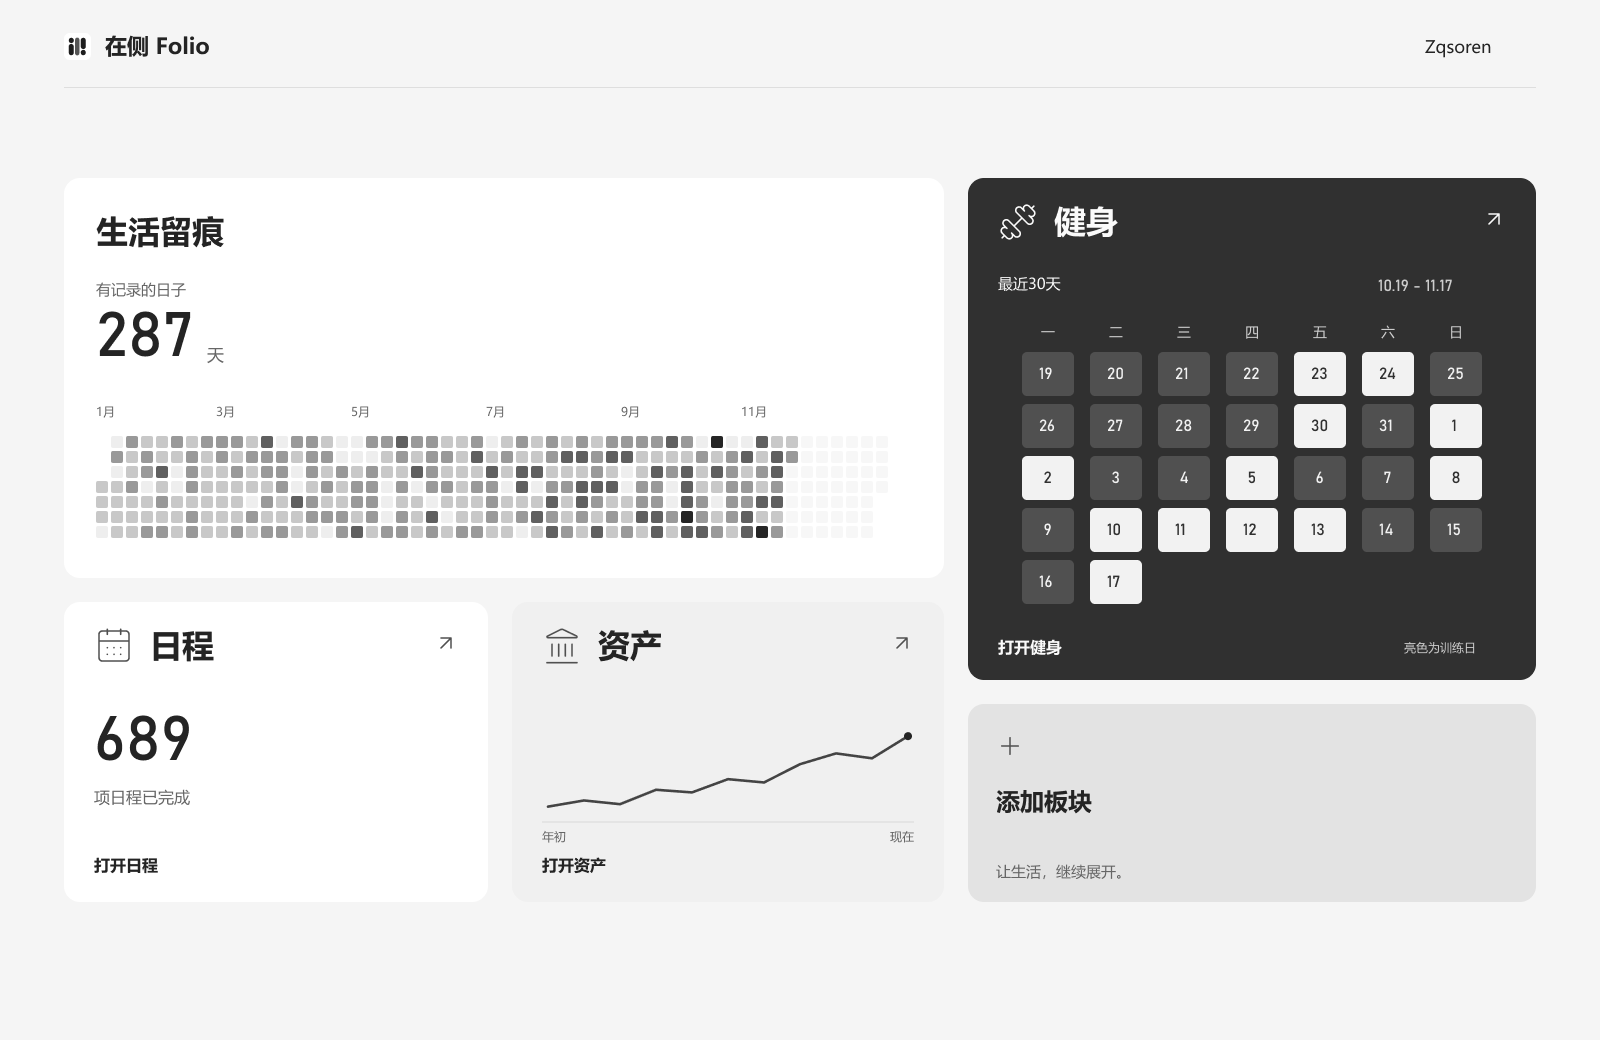
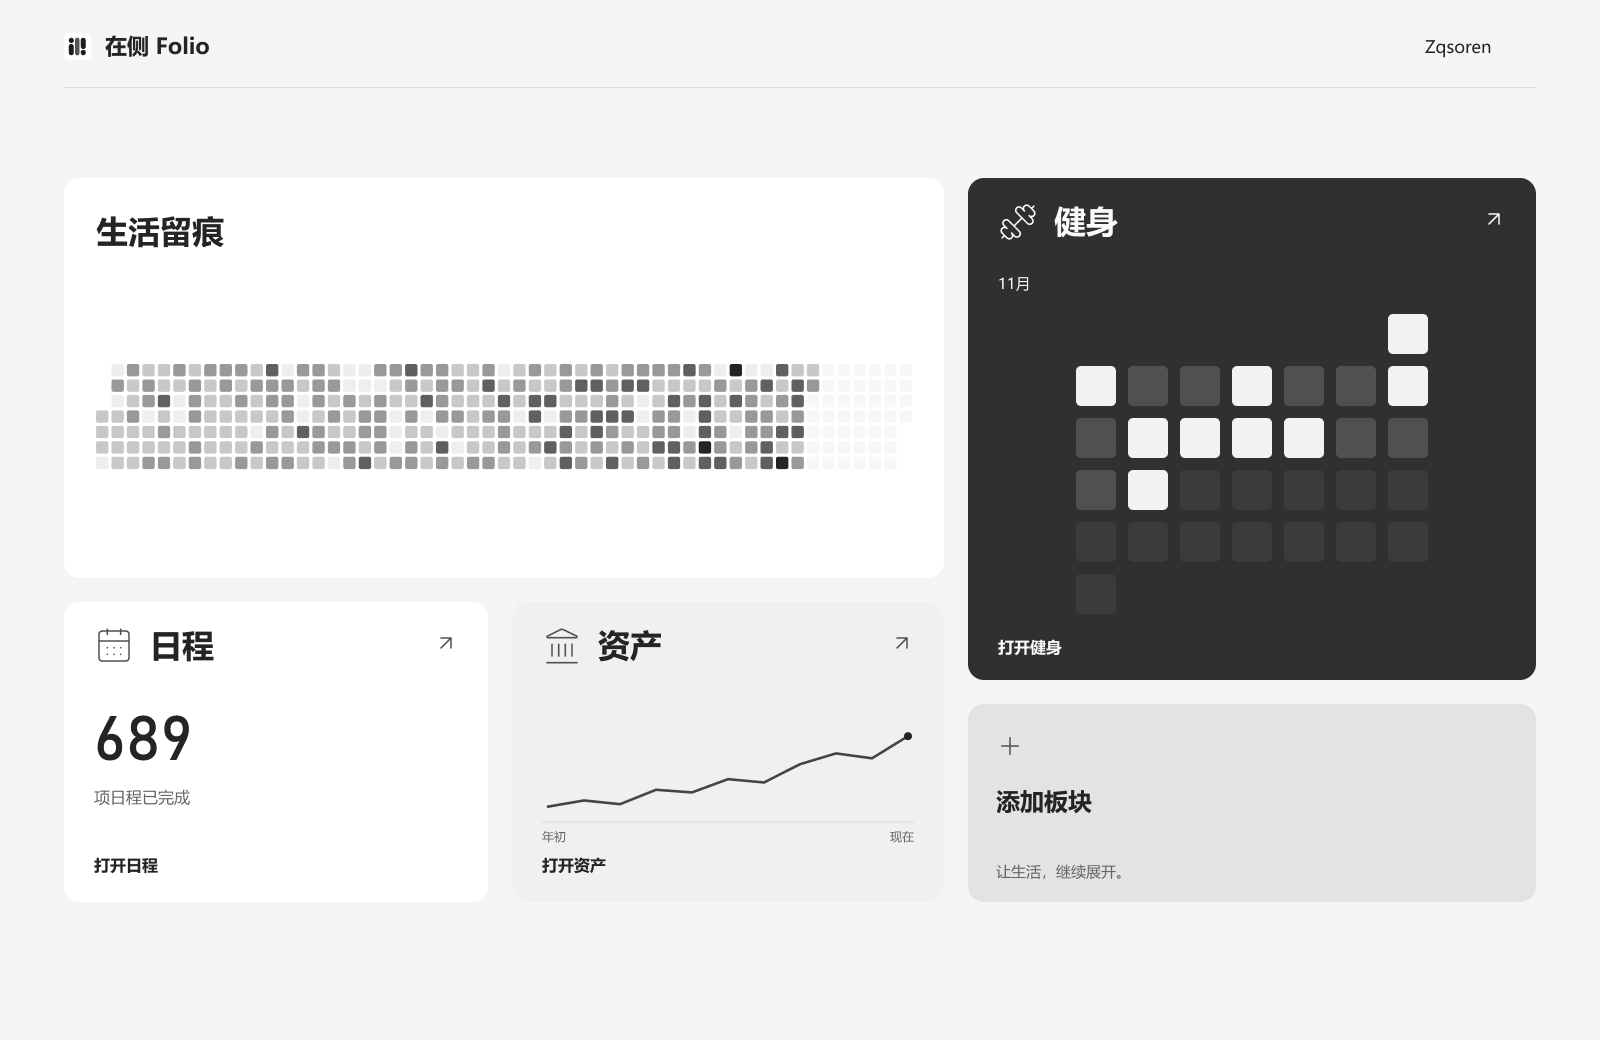
design(home): use current month and simplify heatmap labels

diff --git a/docs/设计日志/主页/新窗口交接.md b/docs/设计日志/主页/新窗口交接.md
@@ -2,7 +2,7 @@
 
 > 阅读顺序：先读[协作总则](../00-总则.md)，再按任务阅读本文件。
 
-最近更新：2026-11-17。当前目标：已续完中断设计，健身改为最近一个月热力与深灰白字，生活留痕保留用户删减内容并重新排版；待视觉评审，未写应用代码。
+最近更新：2026-11-17。当前目标：已将健身改为当前自然月无数字热力，生活留痕删去统计和月份标签并重排；其余保持，未写代码。
 
 [总入口](../在侧Folio-新窗口交接.md) · [设计日志](设计日志.md) · [现行规则](设计与写作规则.md)
 
@@ -10,17 +10,17 @@
 
 | 项目 | 当前记录 |
 |---|---|
-| 目标与完成标准 | 已完成健身近月热力、深灰白字与生活留痕排版；已核对Figma并导出预览，待用户评审 |
+| 目标与完成标准 | 已完成当前自然月热力及两张卡片的信息精简，核对其他板块未变，待用户评审 |
 | 端与边界 | 桌面网页Figma设计；仅调整健身及生活留痕，未写应用代码；手机端未排期 |
 | 工作窗口与分支 | Windows Codex 主页接手窗口；main 跟踪 origin/main，保留资产等其他模块暂存、未暂存与未跟踪改动 |
 | 文件与画板 | 自己的 Figma EX「在侧-主页」11:7786；本模块记录、预览及模块索引主页条目 |
-| 同步 | 本轮主页提交5a82ea4；推送时远端资产已前进至1bcfe53，通过隔离索引合并，两边内容均保留。合并提交位于codex/home-monthly-20261117并推送远端main，实际结果见Git；本机main暂保留5a82ea4及原资产暂存区，未强制改写。当前本机这两份交接记录也已收进合并提交，但因main未前进仍会显示差异。可编辑原稿留在Figma，另一设备访问未验证 |
+| 同步 | 前轮已推送8280b78；本轮继续以远端main为基准，用系统临时索引提交主页文件并推送，保留其他模块内容。提交在codex/home-monthly-20261117，结果见Git；本机main及原资产暂存区保持原位，因此已同步的主页文件仍可能显示本地差异。可编辑原稿留在Figma，另一设备访问未验证 |
 
 ## 各端状态
 
 | 端 | 设计 | 实现 | 验证 | 发布 |
 |---|---|---|---|---|
-| 桌面网页版 | G黑白灰已确认；健身近月热力、深灰白字及生活留痕删减后排版已调整，细节待评审 | 未开始 | 2026-11-17 核对30个日期、12个示例训练日、星期列、边界与文字对比度；三个URL原型连线保留，真实数据未接入 | 未上线 |
+| 桌面网页版 | G黑白灰已确认；健身当前自然月无数字热力、生活留痕纯图形展示已调整，细节待评审 | 未开始 | 2026-11-17 核对30个当月格、9个示例训练日、13个未来日；指定文字已删除，其他板块快照一致，健身URL保留 | 未上线 |
 | 手机版 | 未排期 | 未排期 | 未验证 | 未上线 |
 
 ## 当前基准与入口
@@ -35,12 +35,12 @@
 
 #### 最新内容调整
 
-- 主板块由「这一年，有迹可循」改为「生活留痕」（助手命名，待评审），展示所有记录的年度热力与有记录天数。
-- 健身取消全年十二个月展示，只显示最近一个月。当前稿按最近30天理解，固定示例区间2026-10-19至11-17，30个日期、12个训练日，周一至周日排列；滚动30天属于本轮设计解释，尚未确认成真实统计规则。卡片#303030，标题/图标#FAFAFA，训练格#F2F2F2、非训练格#505050；没有训练总数大字。
+- 主板块由「这一年，有迹可循」改为「生活留痕」（助手命名，待评审），只展示所有记录的年度热力，不显示有记录天数、说明或月份标签。
+- 健身只显示当前自然月，用户明确否定滚动30天及跨月。当前示例2026年11月，30格中9个训练日、8个过去无训练日、13个未来日；按真实月历排列但不显示星期或日期数字，只保留「11月」月份标识。图形18:9828为352×300、40px方格。深灰底、白字不变，亮格训练、深格无训练、未来格更暗，不显示说明或图例。
 - 资产取消48等大数字，只留个人总资产变化折线，横向年初至现在，不显示金额和增长率；独立合成金额样例见当前预览目录，不能用原来的48次记录生成资产价值曲线。
 - 日程保留689等数字概览；三模块标题32px粗体、图标40px，替换为重新按尺寸导入的矢量图标。
 - 当前画布主卡/健身卡y=178、日程/资产y=602、添加y=704；工作期间画布顶部标题等已移除、模块整体上移，保留实际最新排布。此前改色阶段“布局未变”的验证仅指当时步骤。
-- 生活留痕保留用户对解释和图例的删减结果，标题与统计左对齐，月份和热力格整体下移，热力图距卡片底40px。资产卡的「总资产走势 · 示例」文字在工作期间被外部删除，已保留实时画布，不恢复；所有数据仍为合成设计示例，未实现真实统计或行情。新增板块保持入口设计。
+- 生活留痕删除「有记录的日子」、287及天、1月/3月等全部月份标签，仅保留标题和年度热力；热力图等比放至816×105.09，x=32、y=186，在标题下方的可用区域居中。所有卡片尺寸/位置、页头、日程、资产、添加板块均保持。数据仍为合成设计样例，未接真实统计。
 
 ### 前轮：个人变化三版探索
 
@@ -87,7 +87,7 @@
 
 ## 下一步
 
-1. 评审本轮深灰健身卡、最近30天热力与生活留痕留白；如「最近一个月」应指自然月，再调整日期窗口，不重新选择G/H/I。
+1. 评审本轮自然月纯方格及生活留痕留白；当前自然月和减少解释信息已明确，不再提出滚动窗口。
 2. 后续补添加板块、无记录/少记录等关键状态，确定真实数据的记录口径、隐私展示及时间筛选。
 3. 本轮采用模块跳转，旧iframe可行性记录仅供以后需要时参考；未授权实施页面代码。
 4. 本轮未开发、未部署、未改产品版本；真实同步、账号隔离及跨设备设计访问均未验证。

diff --git a/docs/设计日志/主页/预览/G黑白灰/README.md b/docs/设计日志/主页/预览/G黑白灰/README.md
@@ -1,25 +1,18 @@
 # G生活热力 · 黑白灰
 
-2026-11-17 用户选定G并要求黑白灰配色。当前[Figma节点11:7786](https://www.figma.com/design/fP2PQwfS6MPE7INCFR9xYX/?node-id=11-7786)，文件「在侧-主页」，Page「网页端和手机端」0:1，1600×1040。
+当前[Figma节点11:7786](https://www.figma.com/design/fP2PQwfS6MPE7INCFR9xYX/?node-id=11-7786)，文件「在侧-主页」，Page「网页端和手机端」0:1，1600×1040。更新：2026-11-17。
 
-[完整预览](11-7786.png) · [灰度热力SVG](年度热力-灰度.svg)
+[完整预览](11-7786.png)
 
-- 保留错落卡片与三个模块跳转；最新内容为主板块「生活留痕」、健身最近一个月热力、资产总额折线、日程数字，带添加板块。未写应用代码。
-- 背景#F5F5F5，主字#242424、说明#666666；健身/资产/添加卡分别#303030/#F0F0F0/#E3E3E3；热力和日程卡白色。
-- 生活留痕热力五档#EEEEEE/#C8C8C8/#999999/#606060/#252525；未来日期#F7F7F7。数据与统计口径见[前轮说明](../个人变化三版/README.md)，均为合成样例。
-- 品牌图标在本画板使用单色版；其他方案及共用品牌文件未变。
-- 改色步骤回读确认布局/文字不变；随后按用户要求改内容并放大标题和图标，最终预览以上图为准。PNG为预览，完整可编辑图层留在Figma，跨设备访问未验证。
+- 生活留痕仅保留标题与年度热力，删除统计数字、解释和月份标签；图形816×105.09，在标题下方可用区域居中。原始[灰度图形](年度热力-灰度.svg)的数据与颜色保持。
+- 健身只显示当前自然月，当前示例为11月。移除星期、日期数字和训练日说明，保留月份标识、深灰底白字及原入口。
+- 日程、资产、添加板块与页头保持修改前状态。所有数据都是合成设计示例，未接账号数据、未写应用代码。
 
-## 最新图形
+## 当前图形与数据
 
-- [最近30天训练热力](18-9828.svg)：当前图形，30个可编辑日期格对应2026-10-19至11-17，从原合成样例筛选，其中12个训练日。亮格#F2F2F2、无训练#505050，深灰卡#303030、标题/图标#FAFAFA、说明#CDCDCD。
-- [近月训练样例](最近30天训练示例.json)：含日期、训练状态与原来源；「最近一个月」按滚动30天解释，尚未确认为真实业务口径。
-- [年度训练热力](年度训练热力.svg)：旧12个月图形，仅保留历史，已从当前Figma稿移除。
-- [个人资产走势](个人资产走势.svg)与[独立金额样例](资产走势示例.json)：11个月总资产人民币样例，界面仅显示走势、不显示金额；不是记录次数或真实用户资产。
-- 标题32px粗体、图标40px，黑白灰。主名称「生活留痕」为助手提议，待评审。
+- [当月训练热力](18-9828.svg)：30个40px方格，按2026年11月真实月历排列，不跨月。9个训练日、8个过去无训练日、13个未来日；不显示这些计数或日期数字。
+- [当月训练样例](当月训练示例.json)：从原合成数据筛选当前月，包含未来标记。卡片#303030、标题图标#FAFAFA，训练#F2F2F2、无训练#505050、未来#3B3B3B。
+- [个人资产走势](个人资产走势.svg)与[独立金额样例](资产走势示例.json)：保留原图，不显示金额。
+- [旧滚动30天样例](最近30天训练示例.json)和[旧年度热力](年度训练热力.svg)仅作历史，均不代表当前方案。
 
-## 本轮排版与验证
-
-生活留痕保留用户对解释与图例的删减结果，重新对齐标题、天数与热力图，底部留白40px。资产说明在工作期间被外部删除，保留实时画布。整张稿仍为合成设计示例，不是账号数据。三个模块原型URL保留；未运行真实跳转或应用。
-
-已核对30个日期、12个训练日、星期排列和图形边界；健身文字对比度最低7.20:1，已查看最终导出PNG。
+已查看最终PNG并核对日期、图形边界、指定文字删除及其他板块不变；健身URL原型保留，真实跳转未验证。完整可编辑图层留在Figma，另一设备访问未验证。

diff --git a/docs/设计日志/主页/设计与写作规则.md b/docs/设计日志/主页/设计与写作规则.md
@@ -18,9 +18,10 @@
 - **2026-11-17 最新方向优先**：主页直接展示各模块入口，使用大小不等、排列不必规整的圆角矩形，整体简洁高级；需要添加板块按钮。点击模块跳转对应页面。
 - **2026-11-17 已选定**：采用G「生活热力 / 错落模块入口」，改为黑白灰色系，保留年度热力图和大小错落的模块入口。此前H星云/I地形作为历史备选。
 - 界面文字、卡片、趋势线与热力图统一中性灰，热力强度用明度而非色相区分。具体灰度数值及单色品牌展示为本轮设计实现，用户未逐项确认数值。
-- 用户最新更正：健身只显示最近一个月训练热力，替代此前年度十二个月方案，不展示98等大数字；健身卡采用深灰底、白色文字。资产展示个人总资产变化折线，不展示金额或记录次数的大数字；日程保持数字概览。
-- 当前设计把「最近一个月」解释为最近30天，示例区间2026-10-19至11-17；这不是已确认的真实统计口径。深灰具体数值、训练日亮格及日期格样式属于本轮实现，待评审。
-- 生活留痕保留用户已删减的多余解释，按剩余标题、天数、月份与热力图调整排版，不恢复旧说明和图例。
+- 用户最新更正：健身只显示当前这个自然月训练热力，不能跨月，不采用滚动30天，替代此前年度及滚动方案，不展示98等大数字；健身卡采用深灰底、白色文字。资产展示个人总资产变化折线，不展示金额或记录次数的大数字；日程保持数字概览。
+- 健身热力保持简约：不显示星期、一二三等列名、日期数字及「亮色为训练日」说明；只保留必要的月份标识与图形。当前示例为2026年11月，未来格单独淡化，不能算作已过去的无训练日。
+- 生活留痕只保留标题与热力图；不显示「有记录的日子」、287天等统计数字、1月/3月等月份标签，不恢复已删说明和图例。删减后调整图形位置与留白。
+- 文案原则：优先用图形表达，主动减少可省略的解释文字，不以新增说明补回用户要求的简约。其他板块保持当前设计，除非用户另行要求。
 - 主板块展示整体记录热力，需要替换原名称；当前候选名称「生活留痕」由助手提出，待评审。
 - 健身、资产、日程的标题与图标应更大、更有设计感；本轮采用32px粗体标题、40px矢量图标，具体尺寸是设计实现。
 - 此前页签/书架/地图方向保留作历史探索，不作为当前默认。仍不写应用代码。

diff --git a/docs/设计日志/主页/设计日志.md b/docs/设计日志/主页/设计日志.md
@@ -110,3 +110,11 @@
 - 使用系统临时目录中的隔离Git索引，以远端完整树为基础叠加本轮主页文件，并只替换索引中的主页行，生成双父合并提交，登记分支codex/home-monthly-20261117后推送远端main；不强推，最终结果见Git。
 - 本机main保留5a82ea4，原资产文件和暂存区不改写；主页当前状态与本条日志的最新内容已收进合并提交，本机因main未前进仍显示这两份记录差异。下一窗口先核对本机main、远端main、保留的资产暂存内容与其他窗口状态，不直接把旧暂存快照重新提交以覆盖远端资产成稿。
 - 本机F盘临时索引写入多次停滞，改用系统临时目录后提交成功；旧临时索引和损坏对象备份只留本机，不进仓库。未做全盘或全仓库健康结论。
+
+## 2026-11-17-13｜改为当前自然月，删除热力图解释与数字
+
+- **用户明确更正**：健身只显示当前自然月，不是滚动30天，不跨两个月；删除星期列名、日期数字及「亮色为训练日」。随后要求生活留痕也删除「有记录的日子」、287天和月份标签，删后调整排版，其他先保持。
+- **健身**：以2026年11月替换滚动样例，30个40px纯方格按当月真实星期位置排列，只留「11月」标识；原图形节点18:9828复用，深灰白字、标题图标、卡片尺寸及入口不变。9个训练日、8个已过去无训练日、13个未来日均来自原合成数据，未来格#3B3B3B，未混入10月日期。
+- **生活留痕**：移除说明、统计数字与6个月份标签，仅保留标题和原365格热力；等比放大到816×105.09，x=32/y=186，平衡标题下方留白，不改变主卡或其他卡的位置与尺寸。
+- **验证**：查看导出PNG；回读健身30格全属11月且无文字子节点、无越界；生活留痕仅剩标题文本，年度热力颜色/数据保持。页头、日程、资产及添加板块与修改前递归快照完全一致，健身URL原型保留。未开发、部署或验证真实统计。
+- **记录与同步**：更新现行规则，明确当前自然月和主动减少解释信息；维护状态、预览、当月样例及模块索引主页条目。以最新远端树为基础用系统临时索引提交推送，原本机main和资产暂存区不改写；本机显示差异不等于这些主页文件尚未推送，实际结果见Git。

diff --git a/docs/设计日志/在侧Folio-新窗口交接.md b/docs/设计日志/在侧Folio-新窗口交接.md
@@ -16,7 +16,7 @@
 | 健身 | 1.11.13已上线：最新训练详情、14类组件16px标题与两页用户名下「健身」；保留三列适配及动效，当前共用包20261117-10保留其代码 | [当前状态](健身/新窗口交接.md) | [设计日志](健身/设计日志.md) | [设计与写作规则](健身/设计与写作规则.md) |
 | 宣传页 | 第五版桌面页已上线；1.11.4 接入健身整卡入口，按设备跳转；手机整页未重新定稿 | [当前状态](宣传页/新窗口交接.md) | [设计日志](宣传页/设计日志.md) | [设计与写作规则](宣传页/设计与写作规则.md) |
 | 资产 | 线上1.11.1保持；新增Figma分步录入稿：先建账户、再添加多笔资产，银行图标、默认名称、57项账户类型与逐笔记账开关；待评审及实现 | [当前状态](资产/新窗口交接.md) | [设计日志](资产/设计日志.md) | [设计与写作规则](资产/设计与写作规则.md) |
-| 主页 | 2026-11-17 G黑白灰续作：健身改近月热力、深灰白字；生活留痕删减后重排，资产折线、日程数字保留；未写代码 | [当前状态](主页/新窗口交接.md) | [设计日志](主页/设计日志.md) | [设计与写作规则](主页/设计与写作规则.md) |
+| 主页 | 2026-11-17 G黑白灰：健身改当前自然月纯方格，生活留痕移除统计与月份标签；减少解释信息，其他保持；未写代码 | [当前状态](主页/新窗口交接.md) | [设计日志](主页/设计日志.md) | [设计与写作规则](主页/设计与写作规则.md) |
 
 共用登录 `/login` 的现行稿、实现和发布记录暂由 ToDo 维护。其他模块复用；修改时检查登录回跳和其他模块入口。它与登录后的全产品主页属于不同范围。
 
